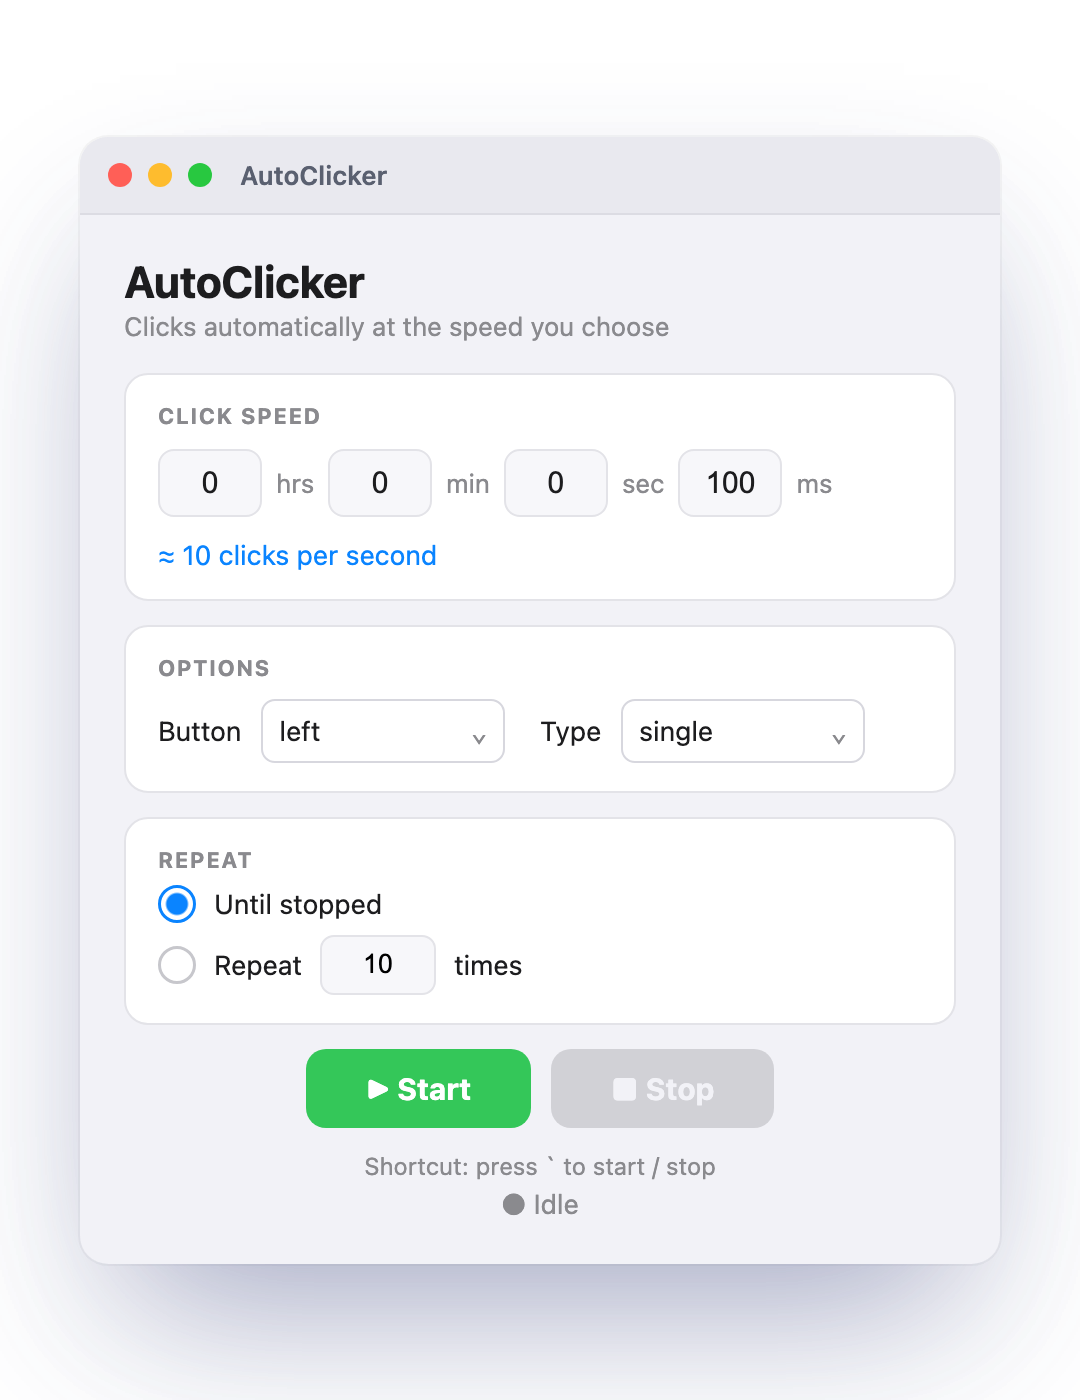
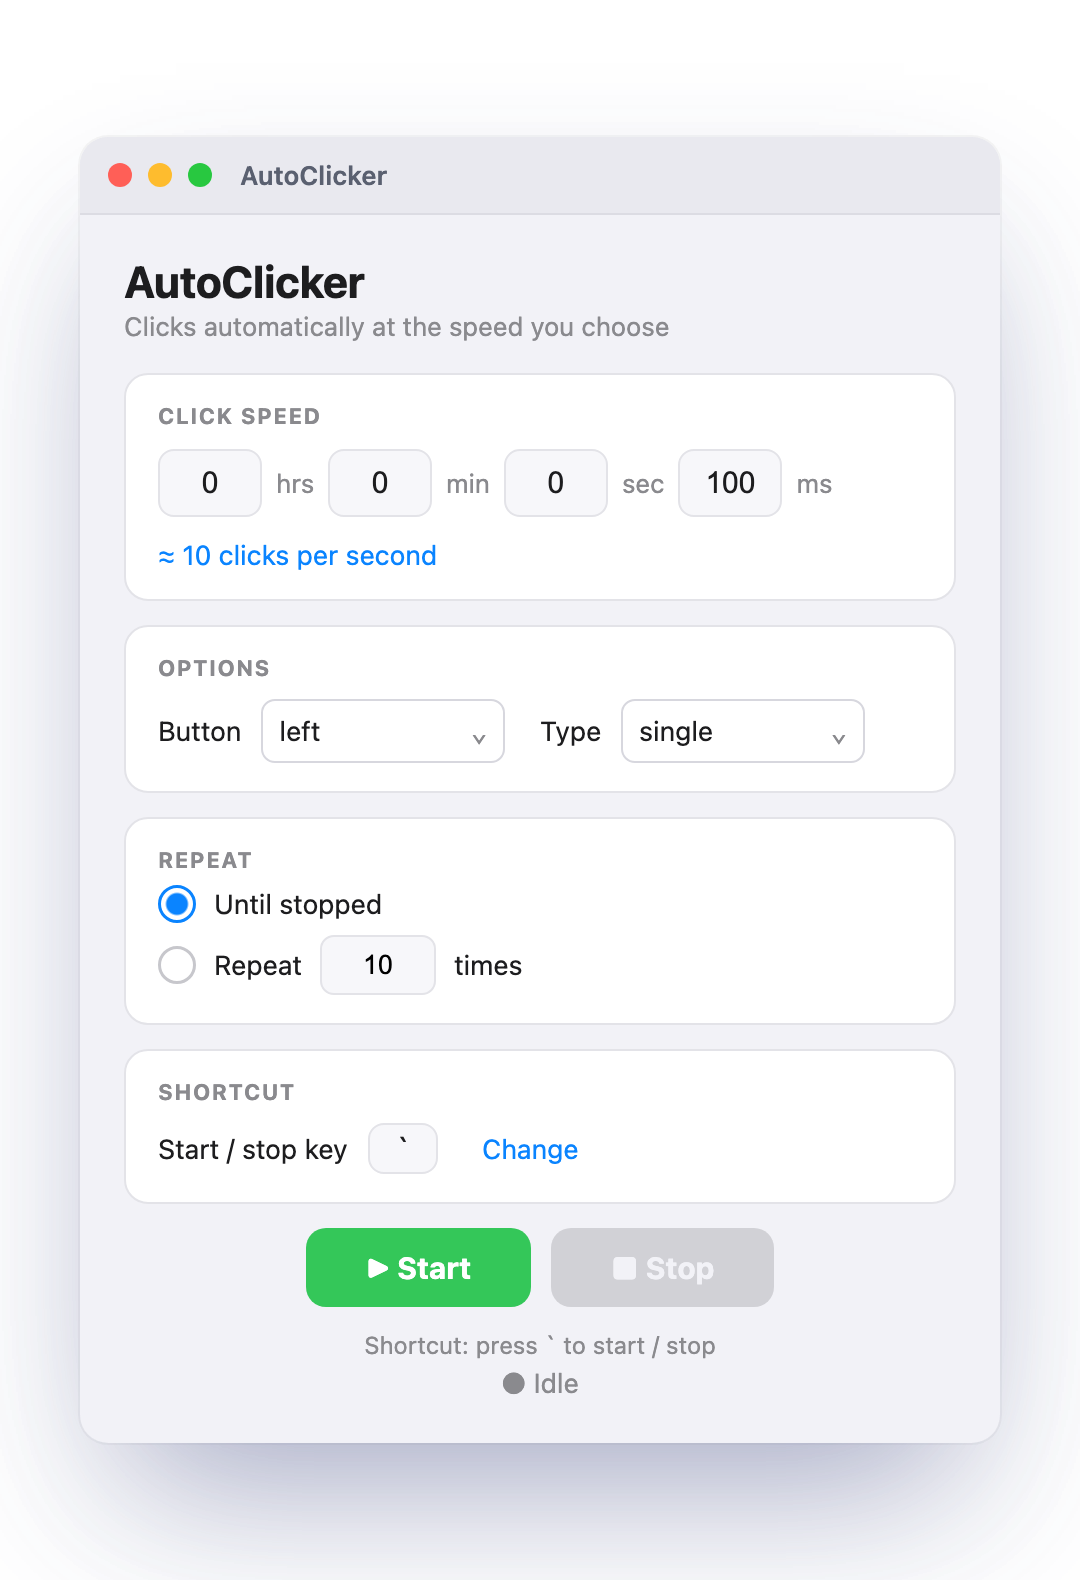
Add a customizable start/stop shortcut key
New SHORTCUT card lets the user pick any key: click Change, press a key,
and it rebinds immediately and persists (~/.autoclicker_config.json). A
Tk-keysym → macOS keycode map feeds the correct code to the key-state
poll. Update the app screenshot, site copy, and README to reflect it.

diff --git a/docs/index.html b/docs/index.html
@@ -55,7 +55,7 @@
     { "@type": "Question", "name": "Is it safe?",
       "acceptedAnswer": { "@type": "Answer", "text": "Yes. It's open source, so you can read all the code on GitHub. The one-time unverified-developer prompt appears because the app isn't paid-registered with Apple, not because anything is wrong with it." } },
     { "@type": "Question", "name": "Can I customize it?",
-      "acceptedAnswer": { "@type": "Answer", "text": "Yes — everything is adjustable. Set the click speed in hours, minutes, seconds, or milliseconds; choose the left, middle, or right mouse button; pick single or double click; and either run until you stop it or repeat a set number of times. Start and stop with the Start button or the backtick keyboard shortcut from any app." } },
+      "acceptedAnswer": { "@type": "Answer", "text": "Yes — everything is adjustable. Set the click speed in hours, minutes, seconds, or milliseconds; choose the left, middle, or right mouse button; pick single or double click; and either run until you stop it or repeat a set number of times. Start and stop with the Start button or a keyboard shortcut you can set to any key (the backtick key by default), which works from any app." } },
     { "@type": "Question", "name": "Does it work on Windows?",
       "acceptedAnswer": { "@type": "Answer", "text": "No. This is a macOS app for Apple Silicon Macs (M1, M2, M3, M4). It does not run on Windows, Chromebooks, or older Intel Macs." } }
   ]
@@ -170,7 +170,7 @@
       <div class="show-feats">
         <div class="feat"><div class="ic">⏱️</div><div><h3>Any speed</h3><p>From many clicks per second to one every few minutes.</p></div></div>
         <div class="feat"><div class="ic">🖱️</div><div><h3>Any button</h3><p>Left, middle, or right — single or double click.</p></div></div>
-        <div class="feat"><div class="ic">⌨️</div><div><h3>Keyboard shortcut</h3><p>Tap the <strong>backtick</strong> key <code>`</code> — just above Tab — to start or stop.</p></div></div>
+        <div class="feat"><div class="ic">⌨️</div><div><h3>Keyboard shortcut</h3><p>Start or stop with a key of your choice — the <strong>backtick</strong> <code>`</code> (above Tab) by default.</p></div></div>
       </div>
     </div>
   </div>
@@ -199,7 +199,7 @@
         <li><strong>Mouse button</strong> — left, middle, or right</li>
         <li><strong>Click type</strong> — single or double click</li>
         <li><strong>Repeat</strong> — run until you stop it, or stop automatically after a set number of clicks</li>
-        <li><strong>Keyboard shortcut</strong> — start and stop with the Start button or the <code>`</code> (backtick) key from any app</li>
+        <li><strong>Keyboard shortcut</strong> — start and stop with the Start button or a key of your choice (the <code>`</code> backtick key by default), from any app</li>
       </ul>
     </details>
     <details><summary>Does it work on Windows?</summary><p>No. This is a macOS app for <strong>Apple Silicon Macs</strong> (M1, M2, M3, M4). It does not run on Windows, Chromebooks, or older Intel Macs.</p></details>

diff --git a/autoclicker.py b/autoclicker.py
@@ -14,6 +14,7 @@ Requires: pynput   ->   pip install pynput
 """
 
 import ctypes
+import json
 import os
 import sys
 import threading
@@ -55,10 +56,47 @@ def is_trusted():
         return True  # if we can't tell, don't nag
 
 
-# ---- toggle hotkey: the backtick ` key (top-left, above Tab) ----
+# ---- default start/stop shortcut: the backtick ` key (above Tab) ----
 TOGGLE_CHAR = "`"
 TOGGLE_LABEL = "`"
 TOGGLE_KEYCODE = 50   # macOS virtual key code for the ` / ~ key (kVK_ANSI_Grave)
+
+# Tk keysym -> macOS virtual key code (kVK_*), so a chosen key maps to the
+# code CGEventSourceKeyState expects. Falls back to event.keycode if missing.
+KEYSYM_TO_KVK = {
+    "a": 0, "s": 1, "d": 2, "f": 3, "h": 4, "g": 5, "z": 6, "x": 7, "c": 8,
+    "v": 9, "b": 11, "q": 12, "w": 13, "e": 14, "r": 15, "y": 16, "t": 17,
+    "o": 31, "u": 32, "i": 34, "p": 35, "l": 37, "j": 38, "k": 40, "n": 45,
+    "m": 46,
+    "1": 18, "2": 19, "3": 20, "4": 21, "5": 23, "6": 22, "7": 26, "8": 28,
+    "9": 25, "0": 29,
+    "grave": 50, "minus": 27, "equal": 24, "bracketleft": 33,
+    "bracketright": 30, "semicolon": 41, "apostrophe": 39, "comma": 43,
+    "period": 47, "slash": 44, "backslash": 42,
+    "space": 49, "Return": 36, "Tab": 48, "BackSpace": 51,
+    "Left": 123, "Right": 124, "Down": 125, "Up": 126,
+    "F1": 122, "F2": 120, "F3": 99, "F4": 118, "F5": 96, "F6": 97, "F7": 98,
+    "F8": 100, "F9": 101, "F10": 109, "F11": 103, "F12": 111,
+}
+
+# ---- saved-preferences file (remembers a custom shortcut key) ----
+CONFIG_PATH = os.path.expanduser("~/.autoclicker_config.json")
+
+
+def load_config():
+    try:
+        with open(CONFIG_PATH) as fh:
+            return json.load(fh)
+    except Exception:
+        return {}
+
+
+def save_config(data):
+    try:
+        with open(CONFIG_PATH, "w") as fh:
+            json.dump(data, fh)
+    except OSError:
+        pass
 
 # ---- color palette (light, iOS-ish) ----
 BG = "#f2f2f7"
@@ -129,6 +167,7 @@ class HotkeyManager:
         self.root = root
         self.on_toggle = on_toggle
         self.keycode = keycode
+        self.char = char
         self._prev_down = False
         self._active = True
         self._quartz = None
@@ -141,7 +180,13 @@ class HotkeyManager:
             except ImportError:
                 self._active = False  # fall back to the on-screen buttons
         else:
-            self._start_pynput(char)
+            self._start_pynput()
+
+    def set_key(self, keycode, char):
+        """Rebind the shortcut to a different key (takes effect immediately)."""
+        self.keycode = keycode
+        self.char = char
+        self._prev_down = False
 
     def _poll(self):
         if not self._active:
@@ -160,10 +205,10 @@ class HotkeyManager:
         self._prev_down = down
         self.root.after(self.POLL_MS, self._poll)
 
-    def _start_pynput(self, char):
+    def _start_pynput(self):
         def on_press(key):
             try:
-                if key.char == char:
+                if key.char == self.char:
                     self.root.after(0, self.on_toggle)
             except AttributeError:
                 pass
@@ -209,6 +254,12 @@ class AutoClickerApp:
     def __init__(self, root):
         self.root = root
         self.click_thread = None
+        self._capturing = False
+        self._capture_binding = None
+        cfg = load_config()
+        self._key_code = cfg.get("keycode", TOGGLE_KEYCODE)
+        self._key_char = cfg.get("char") or TOGGLE_CHAR
+        self.toggle_label = cfg.get("label", TOGGLE_LABEL)
         root.title("AutoClicker")
         root.configure(bg=BG)
         root.resizable(False, False)
@@ -325,6 +376,24 @@ class AutoClickerApp:
         tk.Label(rrow, text="times", font=self.f_body, bg=CARD,
                  fg=TEXT).grid(row=0, column=2)
 
+        # ---- shortcut card ----
+        card4 = self._card(outer)
+        self._section(card4, "SHORTCUT")
+        srow = tk.Frame(card4, bg=CARD)
+        srow.pack(anchor="w", pady=(8, 0))
+        tk.Label(srow, text="Start / stop key", font=self.f_body, bg=CARD,
+                 fg=TEXT).grid(row=0, column=0)
+        self.shortcut_key_var = tk.StringVar(value=self.toggle_label)
+        self.key_chip = tk.Label(srow, textvariable=self.shortcut_key_var,
+                                 font=self.f_entry, bg="#f7f7fa", fg=TEXT,
+                                 padx=14, pady=2, highlightthickness=1,
+                                 highlightbackground=BORDER)
+        self.key_chip.grid(row=0, column=1, padx=(10, 12))
+        self.change_btn = tk.Label(srow, text="Change", font=self.f_body,
+                                   bg=CARD, fg=ACCENT, cursor="pointinghand")
+        self.change_btn.grid(row=0, column=2)
+        self.change_btn.bind("<Button-1>", lambda e: self._capture_shortcut())
+
         # ---- controls ----
         ctrl = tk.Frame(outer, bg=BG)
         ctrl.pack(pady=(16, 4))
@@ -336,7 +405,9 @@ class AutoClickerApp:
         self.stop_btn.grid(row=0, column=1, padx=6)
         self.stop_btn.set_enabled(False)
 
-        tk.Label(outer, text=f"Shortcut:  press  {TOGGLE_LABEL}  to start / stop",
+        self.hint_var = tk.StringVar(
+            value=f"Shortcut:  press  {self.toggle_label}  to start / stop")
+        tk.Label(outer, textvariable=self.hint_var,
                  font=self.f_hint, bg=BG, fg=MUTED).pack(pady=(8, 2))
 
         self.status = tk.StringVar(value="● Idle")
@@ -347,9 +418,67 @@ class AutoClickerApp:
         self._update_rate()
         self._check_perm()
 
-        # ---- global hotkey ----
-        self.hotkey = HotkeyManager(root, self.toggle, TOGGLE_KEYCODE, TOGGLE_CHAR)
+        # ---- global shortcut ----
+        self.hotkey = HotkeyManager(root, self.toggle, self._key_code,
+                                    self._key_char)
         root.protocol("WM_DELETE_WINDOW", self.on_close)
+
+    # ---------- shortcut capture ----------
+    def _key_label(self, event):
+        special = {
+            "grave": "`", "space": "Space", "Return": "Return", "Tab": "Tab",
+            "BackSpace": "⌫", "Delete": "⌦", "minus": "-", "equal": "=",
+            "bracketleft": "[", "bracketright": "]", "semicolon": ";",
+            "apostrophe": "'", "comma": ",", "period": ".", "slash": "/",
+            "backslash": "\\", "Escape": "Esc",
+        }
+        ks = event.keysym
+        if ks in special:
+            return special[ks]
+        if len(ks) == 1:
+            return ks.upper()
+        return ks  # F1, Left, Up, etc.
+
+    def _capture_shortcut(self):
+        if self._capturing:
+            return
+        self._capturing = True
+        self.shortcut_key_var.set("press a key…")
+        self.key_chip.config(fg=ACCENT)
+        self.change_btn.config(text="Cancel")
+        self._capture_binding = self.root.bind("<KeyPress>", self._on_capture_key)
+
+    def _on_capture_key(self, event):
+        if not self._capturing:
+            return
+        modifiers = {"Shift_L", "Shift_R", "Control_L", "Control_R", "Alt_L",
+                     "Alt_R", "Meta_L", "Meta_R", "Caps_Lock", "Option_L",
+                     "Option_R", "Command_L", "Command_R"}
+        if event.keysym in modifiers:
+            return  # ignore lone modifier keys, keep listening
+        if event.keysym == "Escape":
+            self._finish_capture()   # cancel, keep old key
+            return
+        char = event.char if event.char else None
+        ks = event.keysym
+        lookup = ks.lower() if len(ks) == 1 and ks.isalpha() else ks
+        keycode = KEYSYM_TO_KVK.get(lookup, event.keycode)
+        self.toggle_label = self._key_label(event)
+        self.hotkey.set_key(keycode, char)
+        self.hint_var.set(
+            f"Shortcut:  press  {self.toggle_label}  to start / stop")
+        save_config({"keycode": keycode, "char": char or "",
+                     "label": self.toggle_label})
+        self._finish_capture()
+
+    def _finish_capture(self):
+        self._capturing = False
+        self.key_chip.config(fg=TEXT)
+        self.change_btn.config(text="Change")
+        self.shortcut_key_var.set(self.toggle_label)
+        if self._capture_binding:
+            self.root.unbind("<KeyPress>", self._capture_binding)
+            self._capture_binding = None
 
     def _check_perm(self):
         """Show/hide the Accessibility warning banner based on trust state."""

diff --git a/README.md b/README.md
@@ -18,7 +18,7 @@ until that permission is granted.
 - Left, middle, or right mouse button
 - Single or double click
 - Fixed repeat count or click-until-stopped
-- Global keyboard shortcut toggle (**`** backtick) to start/stop without focusing the window
+- Global keyboard shortcut to start/stop without focusing the window — rebindable to any key (**`** backtick by default)
 
 ## How to run it
 Once installed (see **Download** above), open **Autoclicker** from Launchpad,